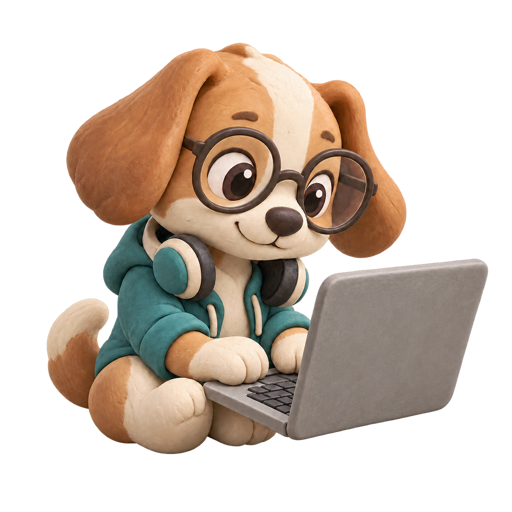
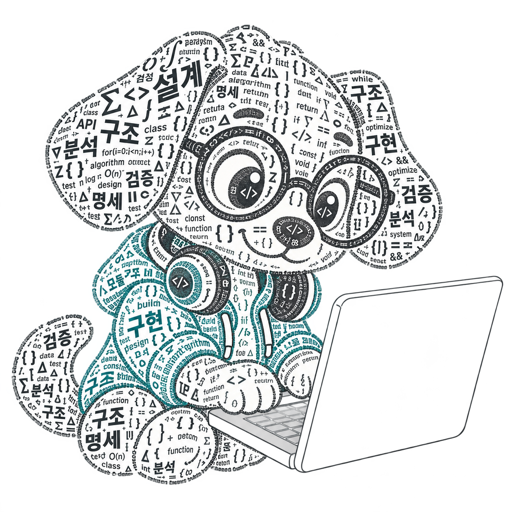
docs(readme): 마스코트 이미지 교체와 다크 모드 버전 추가
- 바탕화면 새 원본(코드·설계 용어로 채운 강아지)으로 mascot.png 교체
- 투명 배경 위 검은 윤곽선이 다크 모드에서 보이지 않아 밝은 둥근 배경 버전 추가
- README 상단과 비교 이미지 머리말에 다크 모드 버전 적용

diff --git a/docs/assets/before-after.html b/docs/assets/before-after.html
@@ -34,6 +34,7 @@ README 상단 대비 이미지의 원본. 수정 후 다음 명령으로 PNG를 
   .brand { font: 600 16px "SF Mono", Menlo, monospace; color: var(--muted); letter-spacing: .02em; }
   .title { display: flex; align-items: center; gap: 16px; }
   .title img { width: 84px; height: 84px; }
+  .dark .title img { background: #f6f8fa; border-radius: 14px; padding: 4px; }
   h1 { font-size: 34px; font-weight: 800; letter-spacing: -.01em; margin-top: 4px; }
   .score { font-size: 20px; font-weight: 700; white-space: nowrap; }
   .score .bad { color: var(--bad-edge); } .score .good { color: var(--good-edge); }

diff --git a/README.md b/README.md
@@ -1,5 +1,8 @@
 <p align="center">
-  <img src="docs/assets/mascot.png" width="220" alt="DevDog 마스코트. 안경과 헤드폰을 착용하고 노트북으로 작업하는 강아지">
+  <picture>
+    <source media="(prefers-color-scheme: dark)" srcset="docs/assets/mascot-dark.png">
+    <img src="docs/assets/mascot.png" width="220" alt="DevDog 마스코트. 코드 기호와 설계·구조·검증 같은 단어로 채워진, 안경과 헤드폰을 착용하고 노트북 앞에 앉은 강아지">
+  </picture>
 </p>
 
 <h1 align="center">DevDog</h1>

diff --git a/CHANGELOG.md b/CHANGELOG.md
@@ -4,6 +4,7 @@
 
 - PR 검사 추가: `gh pr create`·`gh pr edit` 실행 전 제목(`pr-title`), AI 도구 서명(`pr-signature`), 이모지(`pr-emoji`), 본문 Markdown 규칙 검사
 - README에 Claude Code `attribution` 설정으로 커밋·PR 서명을 끄는 방법 추가
+- 마스코트를 코드·설계 용어로 채운 타이포그래피 이미지로 교체, 다크 모드용 밝은 배경 버전(`mascot-dark.png`) 추가
 
 ## 0.3.0 (2026-09-24)
 
